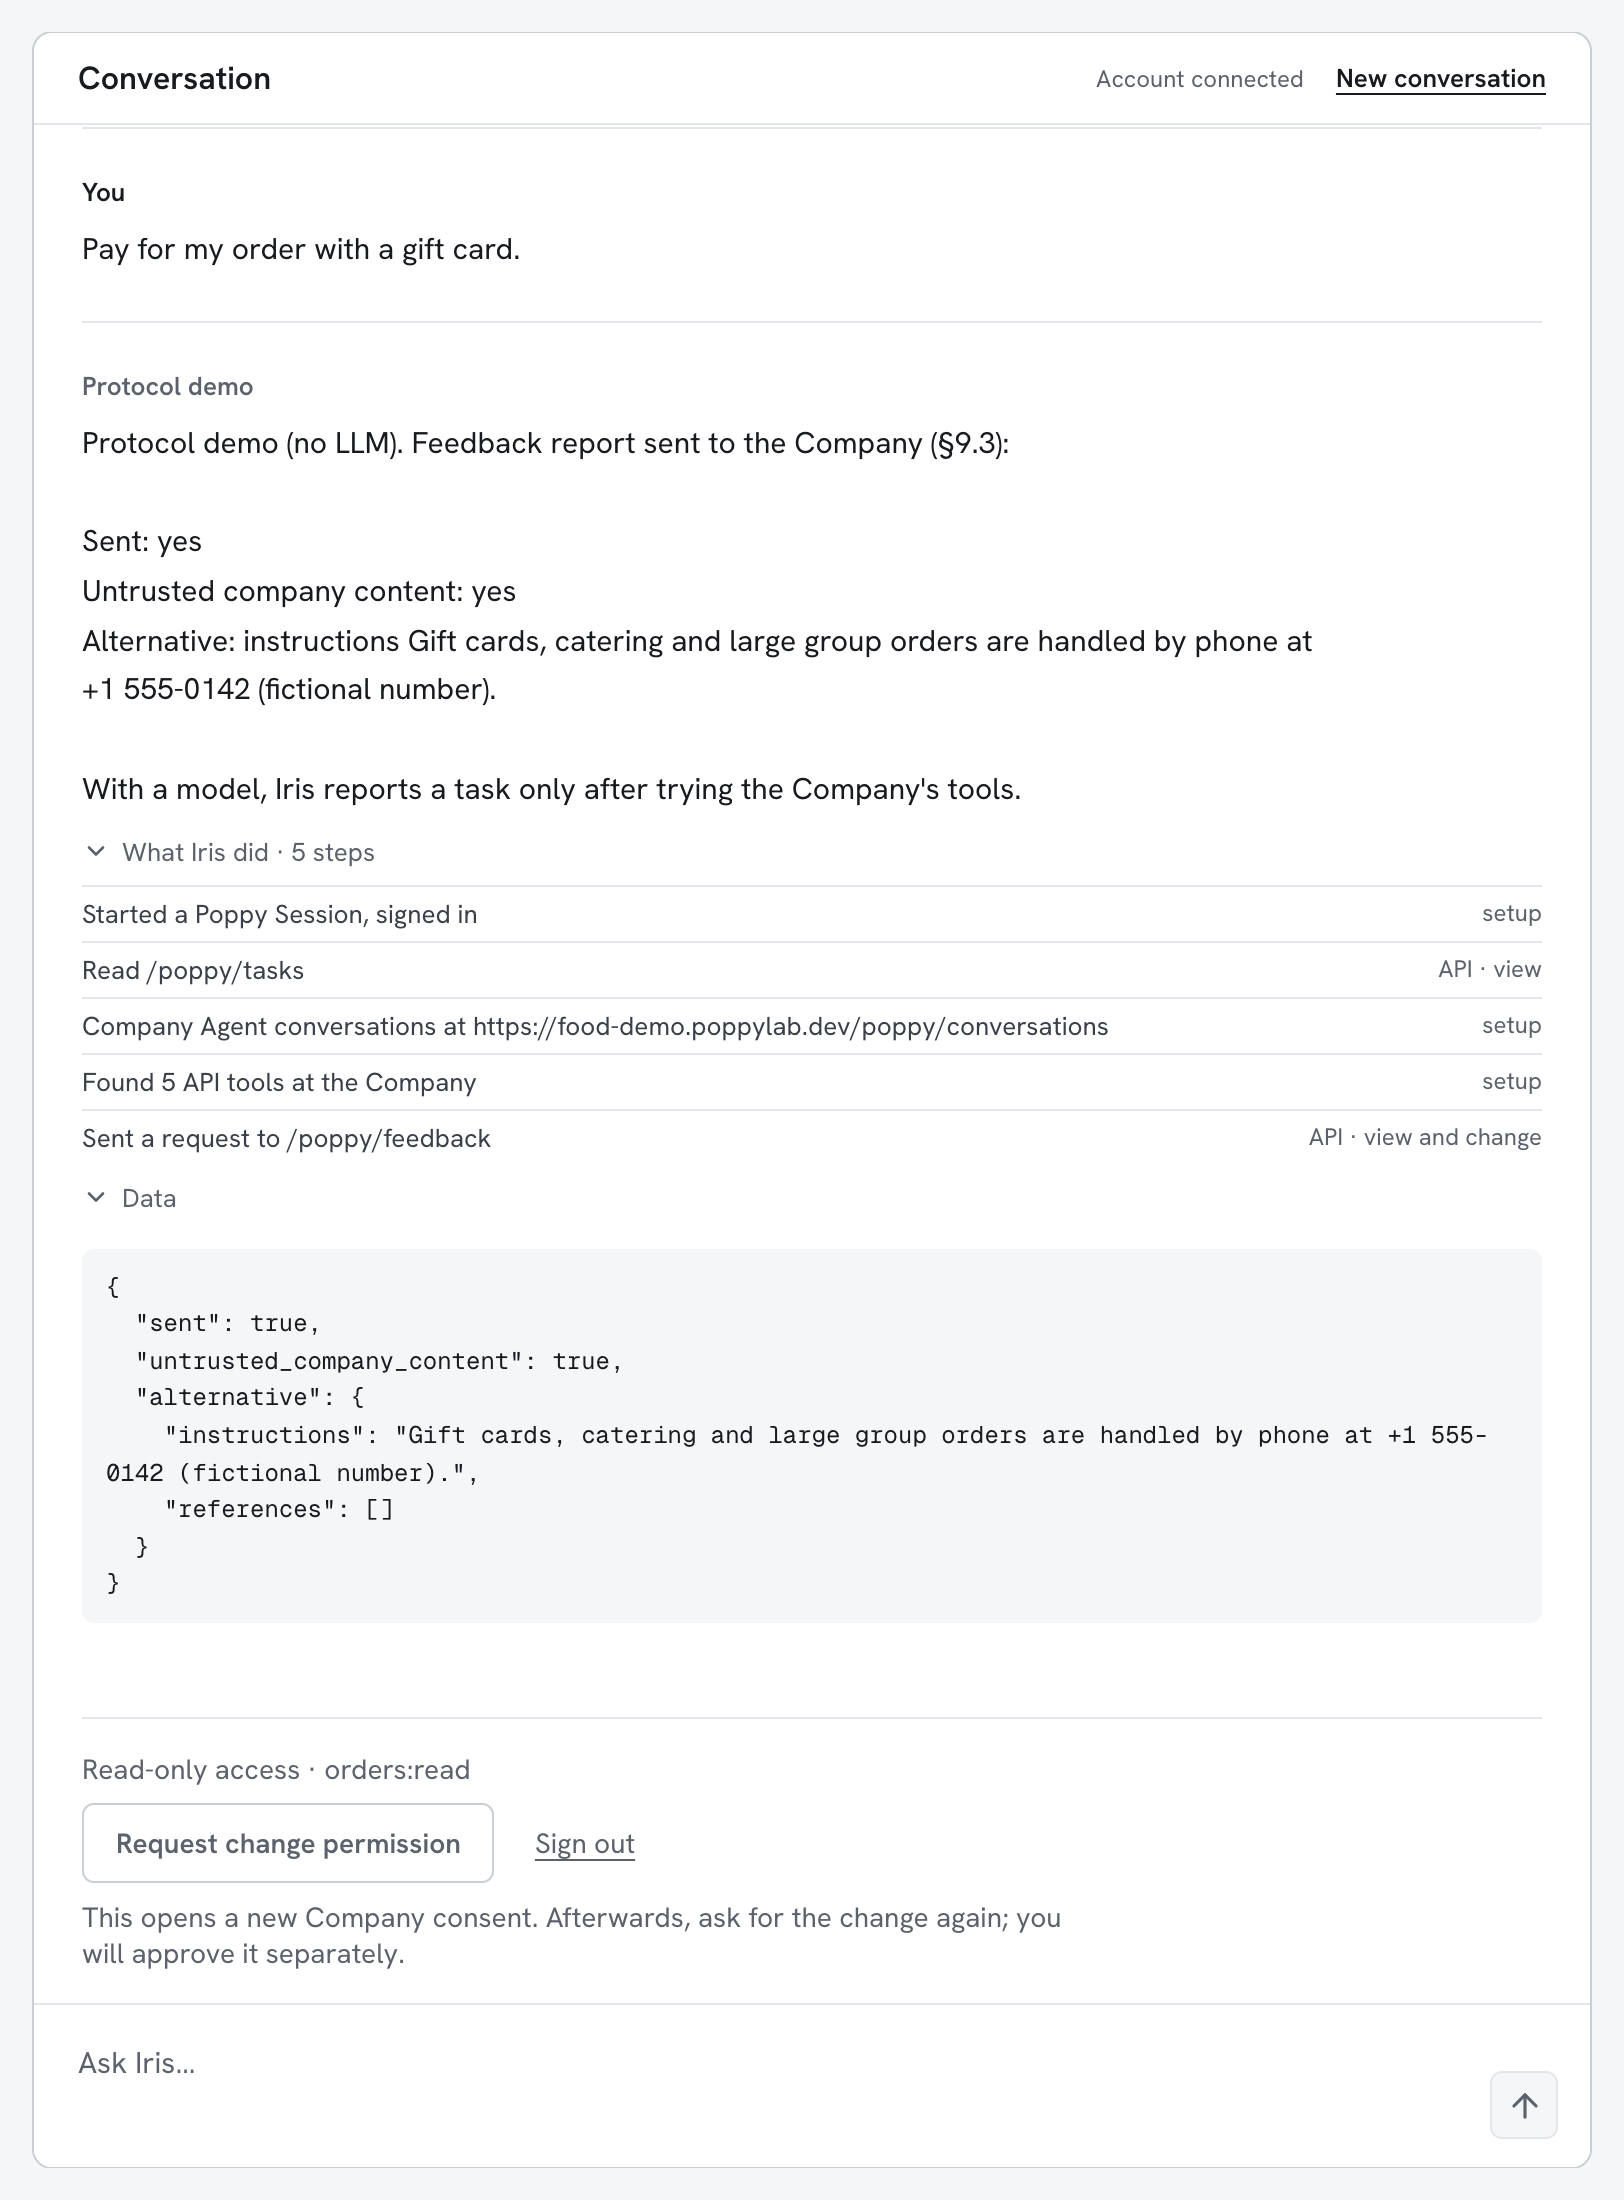
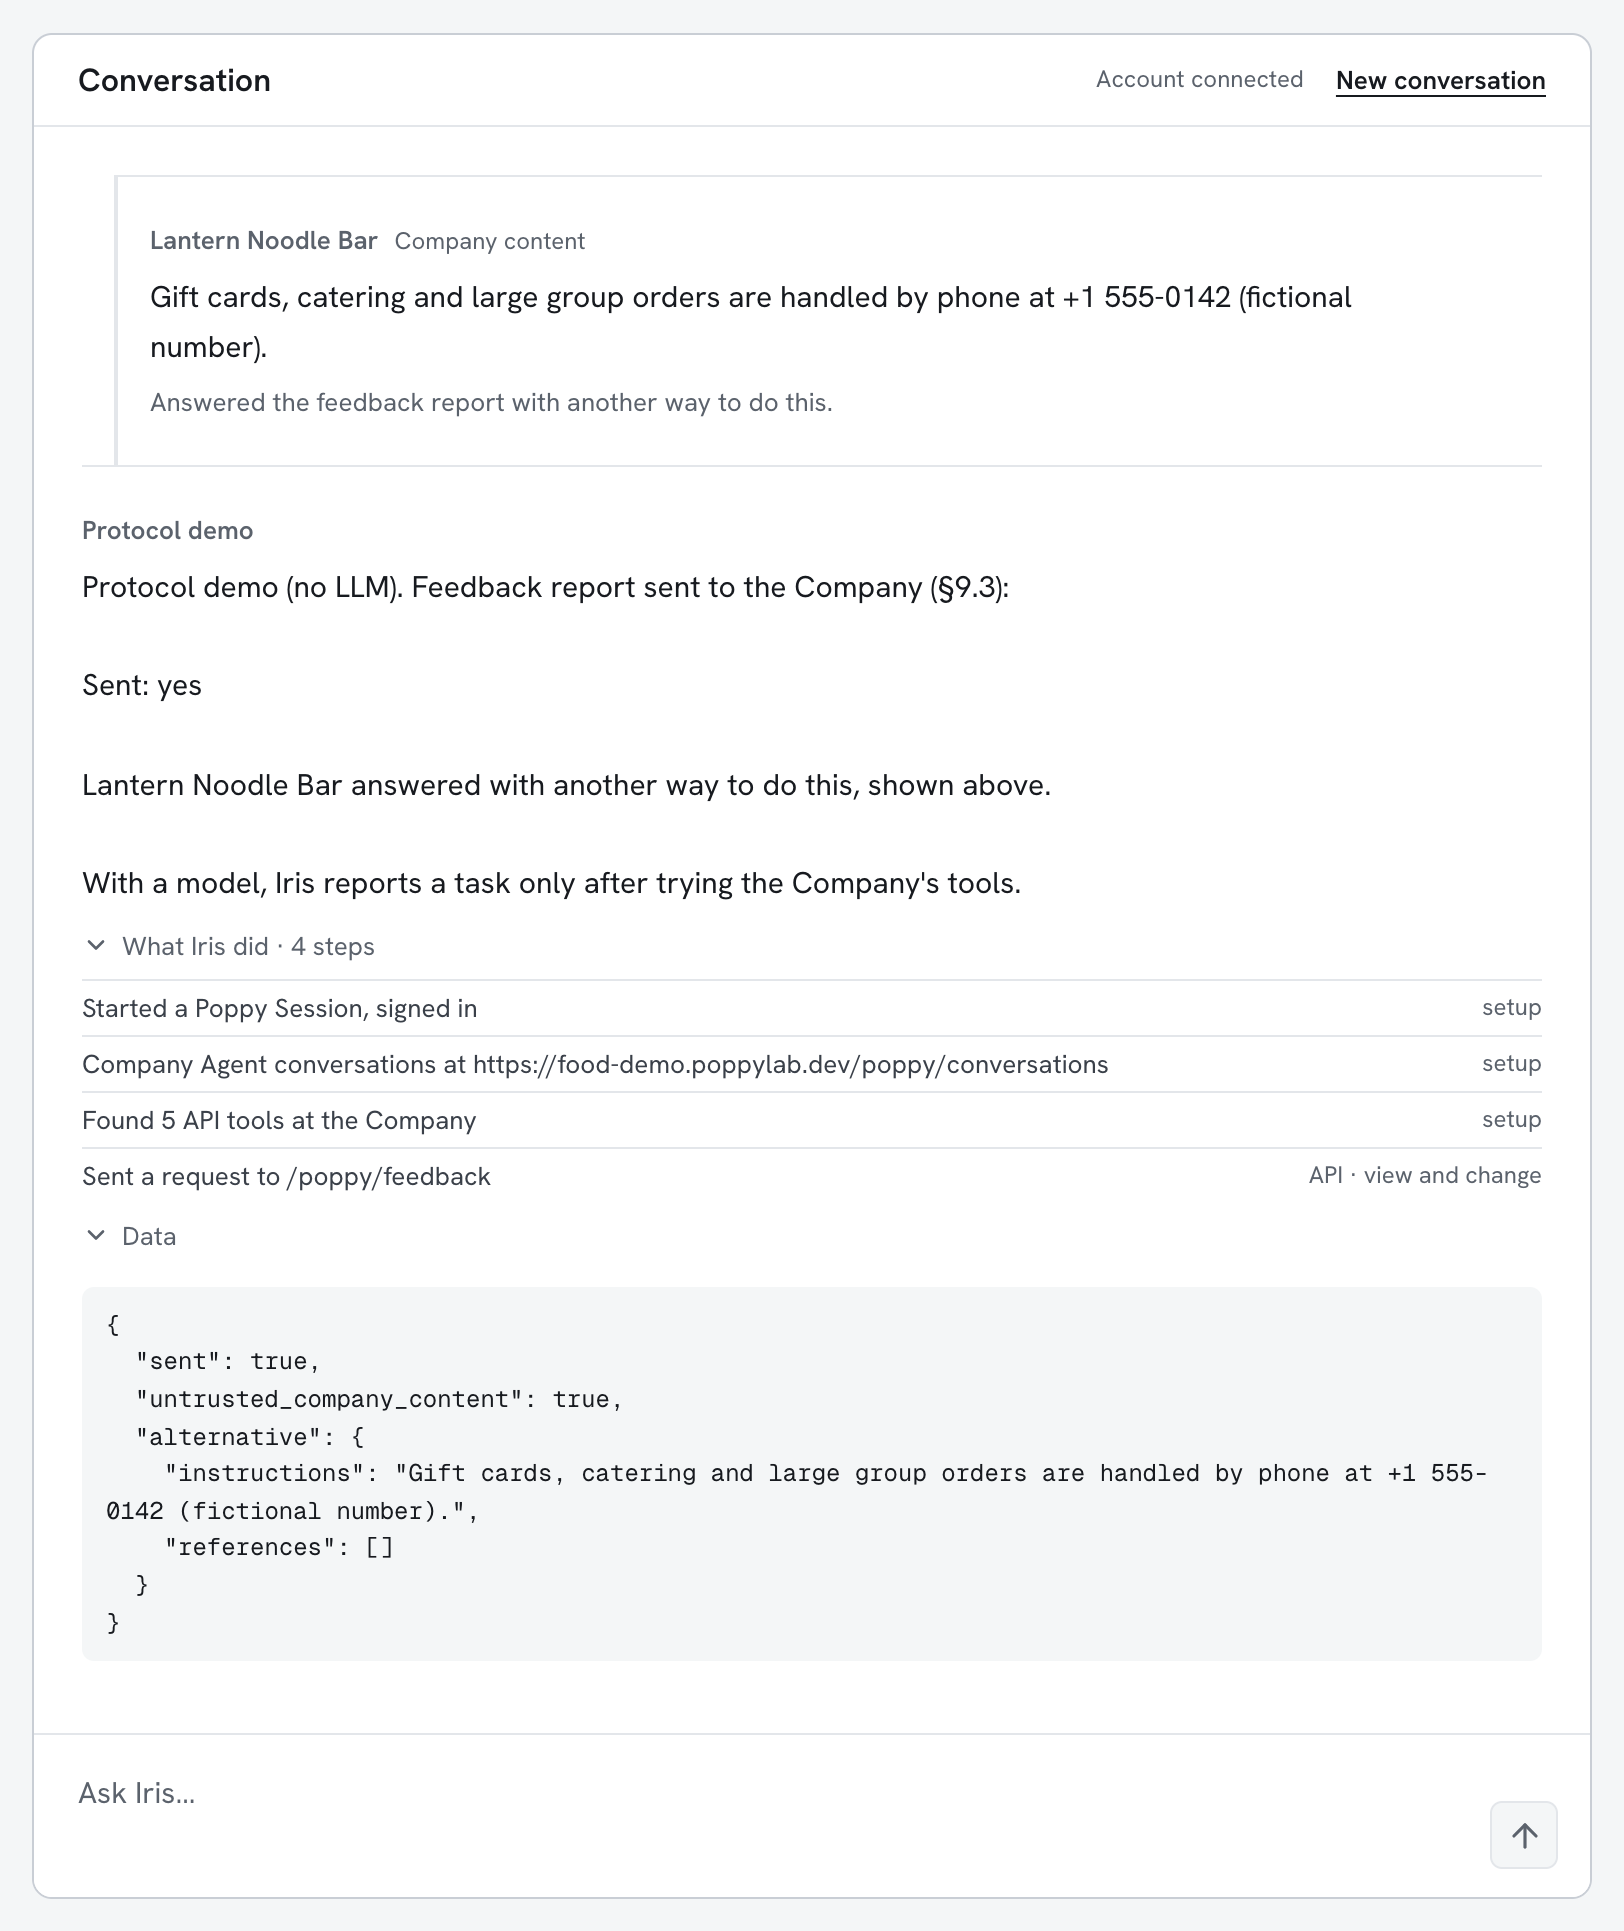
Retake When the company can't do it on 28 November
Steps 1 to 5 and the Inspector image are retaken signed in at Lantern, with the conversation's sign-in blocks and Lantern's answer to the report as a Company content block. The steps of the report are four. Steps 6 and 7 used a model and keep their images of 26 November.

diff --git a/docs/learn/how-it-works/when-the-company-cant-do-it.md b/docs/learn/how-it-works/when-the-company-cant-do-it.md
@@ -8,7 +8,8 @@ passes on the other way Lantern suggests.
 
 This page follows that request screen by screen, on Iris's side and on
 Lantern's, and ends with how another company answers a report. Every
-screenshot is from the live lab, taken on 26 November 2026.
+screenshot is from the live lab at [poppylab.dev](https://poppylab.dev), taken
+on 26 and 28 November 2026.
 
 ## Who does what
 
@@ -22,7 +23,7 @@ screenshot is from the live lab, taken on 26 November 2026.
 
 ### 1. See what Lantern leaves out
 
-![Iris lists two tasks Lantern does not offer to agents: cancelling an order, with a suggestion to move it, and changing the delivery address](../../../apps/playground/public/learn-media/how-it-works/when-the-company-cant-do-it/01-excluded-tasks.webp "Lantern publishes the tasks it chose to leave out, and for one of them it suggests something else.")
+![Above, a block reads Signed in at Lantern Noodle Bar, read only, and another offers change permission. Iris lists two tasks Lantern does not offer to agents: cancelling an order, with a suggestion to move it, and changing the delivery address](../../../apps/playground/public/learn-media/how-it-works/when-the-company-cant-do-it/01-excluded-tasks.webp "Lantern publishes the tasks it chose to leave out, and for one of them it suggests something else.")
 
 A company decides what a customer's agent can do with it, and it can also say
 what it decided to leave out. Lantern lists two such tasks. An order cannot be
@@ -40,12 +41,13 @@ way to do an unusual task.
 <summary>What travelled</summary>
 
 Iris opened a session with Lantern and read the address Lantern publishes for
-its tasks. No account was involved, because the list describes Lantern and
-says nothing about a customer.
+its tasks. Elena was signed in, but the list describes Lantern and says
+nothing about a customer.
 
 ```text
-Started a Poppy Session, signed out
+Started a Poppy Session, signed in
 Read /poppy/tasks
+Company Agent conversations at https://food-demo.poppylab.dev/poppy/conversations
 Found 5 API tools at the Company
 ```
 
@@ -79,7 +81,7 @@ shows the request itself.
 
 ### 2. Ask for something Lantern can't do
 
-![Elena asks to pay for her order with a gift card. Iris answers that a report was sent and that Lantern handles gift cards by phone](../../../apps/playground/public/learn-media/how-it-works/when-the-company-cant-do-it/02-gift-card-report.webp "Iris could not do it, told Lantern, and passed on what Lantern answered.")
+![Elena asks to pay for her order with a gift card. Lantern's answer, marked Company content, says gift cards are handled by phone, and Iris's answer below says the feedback report was sent and Lantern answered with another way to do it](../../../apps/playground/public/learn-media/how-it-works/when-the-company-cant-do-it/02-gift-card-report.webp "Iris could not do it, told Lantern, and passed on what Lantern answered.")
 
 Elena has signed in at Lantern, as in
 [Changing an order](changing-an-order.md), and asks Iris to pay for her order
@@ -90,8 +92,8 @@ said that it leaves the task out.
 Iris does two things. It tells Elena that it cannot do this at Lantern, and it
 sends Lantern a short report of the task. Lantern answers the report with
 another way to do it: gift cards are handled by phone. Iris shows that answer
-as Lantern's words. The line "Untrusted company content" marks it as something
-the company wrote, which Iris passes on and does not take as an instruction.
+as Lantern's words, in a block marked Company content: something the company
+wrote, which Iris passes on and does not take as an instruction.
 
 In demo mode the report is a fixed one, sent as soon as the message mentions a
 gift card. With a model connected, Iris reports a task only after it has tried
@@ -99,7 +101,7 @@ the tools Lantern offers.
 
 ### 3. Read what Iris told Lantern
 
-![The same answer with its details open: five steps, the last one a request to Lantern's feedback address, and Lantern's reply as data](../../../apps/playground/public/learn-media/how-it-works/when-the-company-cant-do-it/03-what-iris-sent.webp "Under the answer, Iris lists what it did and shows Lantern's reply as it arrived.")
+![The same answer with its details open: four steps, the last one a request to Lantern's feedback address, and Lantern's reply as data](../../../apps/playground/public/learn-media/how-it-works/when-the-company-cant-do-it/03-what-iris-sent.webp "Under the answer, Iris lists what it did and shows Lantern's reply as it arrived.")
 
 Under each answer Iris lists what it did. The last line here is the report: one
 request to an address Lantern gave for this purpose.
